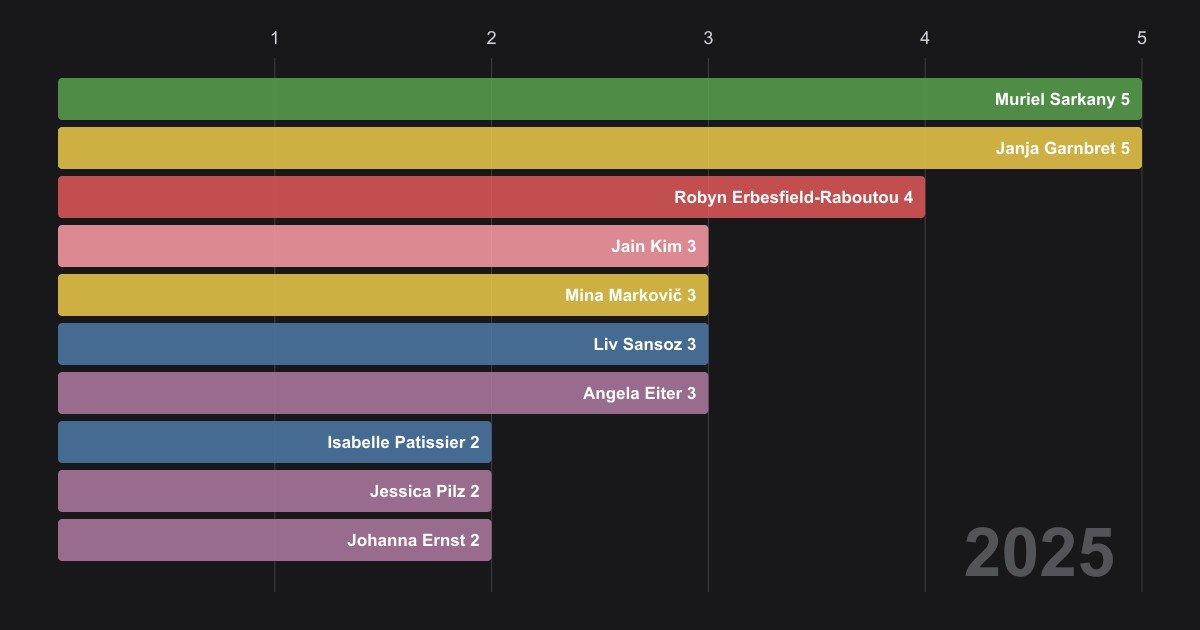
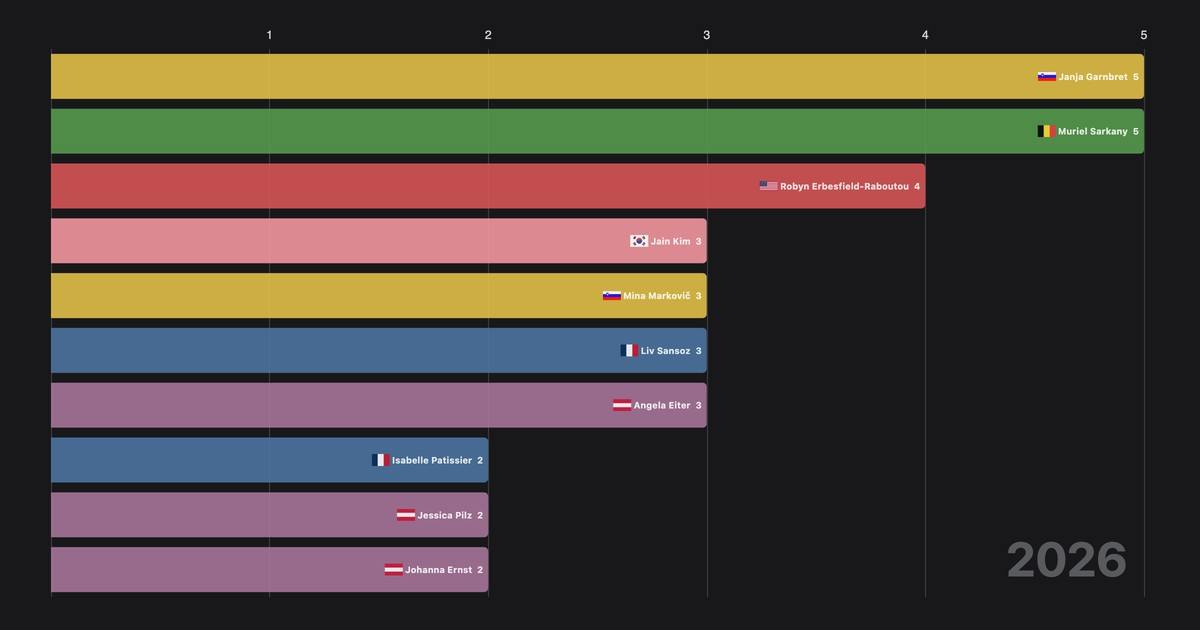
Update World Climbing winners thumbnail and fix tied bar lengths

Changed region(s): [[0.0308, 0.0603, 0.9558, 0.9651], [0.8017, 0.8143, 0.9558, 0.9349]]

diff --git a/apps/frontend/src/content/posts/world-climbing-winners/_components/MedalRace.svelte b/apps/frontend/src/content/posts/world-climbing-winners/_components/MedalRace.svelte
@@ -185,13 +185,13 @@
     return Array.from(totals, ([name, medals]) => {
       // Small decimal values make ECharts break ties by silver, bronze, and
       // then who reached the exact medal total first. They do not visibly
-      // change the gold-medal bar length.
+      // change the gold-medal bar length, even on wide screens.
       const firstToTie =
-        (lastYear - (reachedAt.get(name) ?? lastYear)) / 1_000_000_000;
+        (lastYear - (reachedAt.get(name) ?? lastYear)) / 1_000_000_000_000;
       const rankValue =
         medals.gold +
-        medals.silver / 100 +
-        medals.bronze / 10_000 +
+        medals.silver / 100_000 +
+        medals.bronze / 10_000_000 +
         firstToTie;
 
       const country = countryByAthlete.get(name) ?? "";
@@ -306,11 +306,15 @@
           color: textColor,
           formatter: (value: number) =>
             value === 0 ? "" : String(Math.floor(value)),
+          // The tie-break decimals put the axis end just past a whole number.
+          // Hide that end label so it does not repeat the whole number.
+          showMaxLabel: Number.isInteger(maxRank),
         },
         axisLine: { show: false },
         axisTick: { show: false },
         splitLine: {
           show: true,
+          showMaxLine: Number.isInteger(maxRank),
           lineStyle: { color: textColor, opacity: 0.2 },
         },
       },
